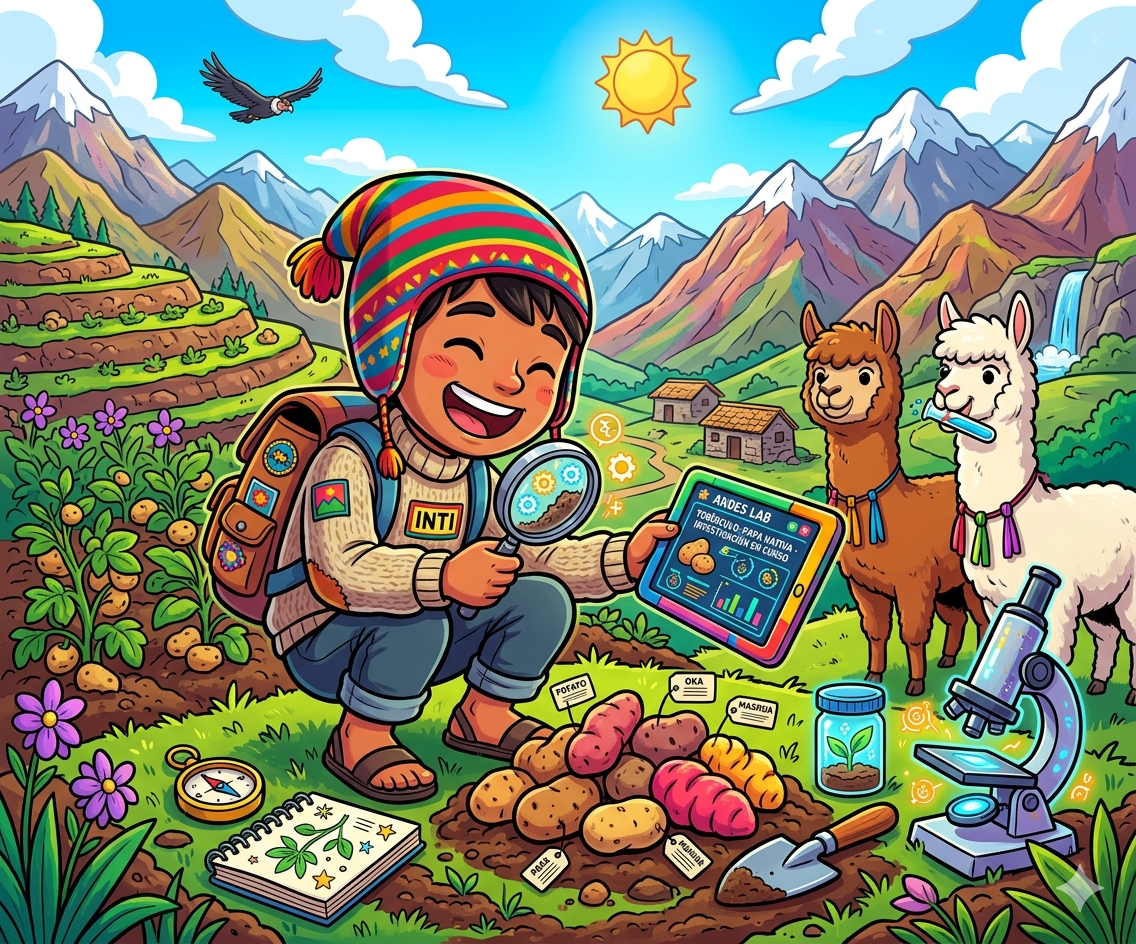
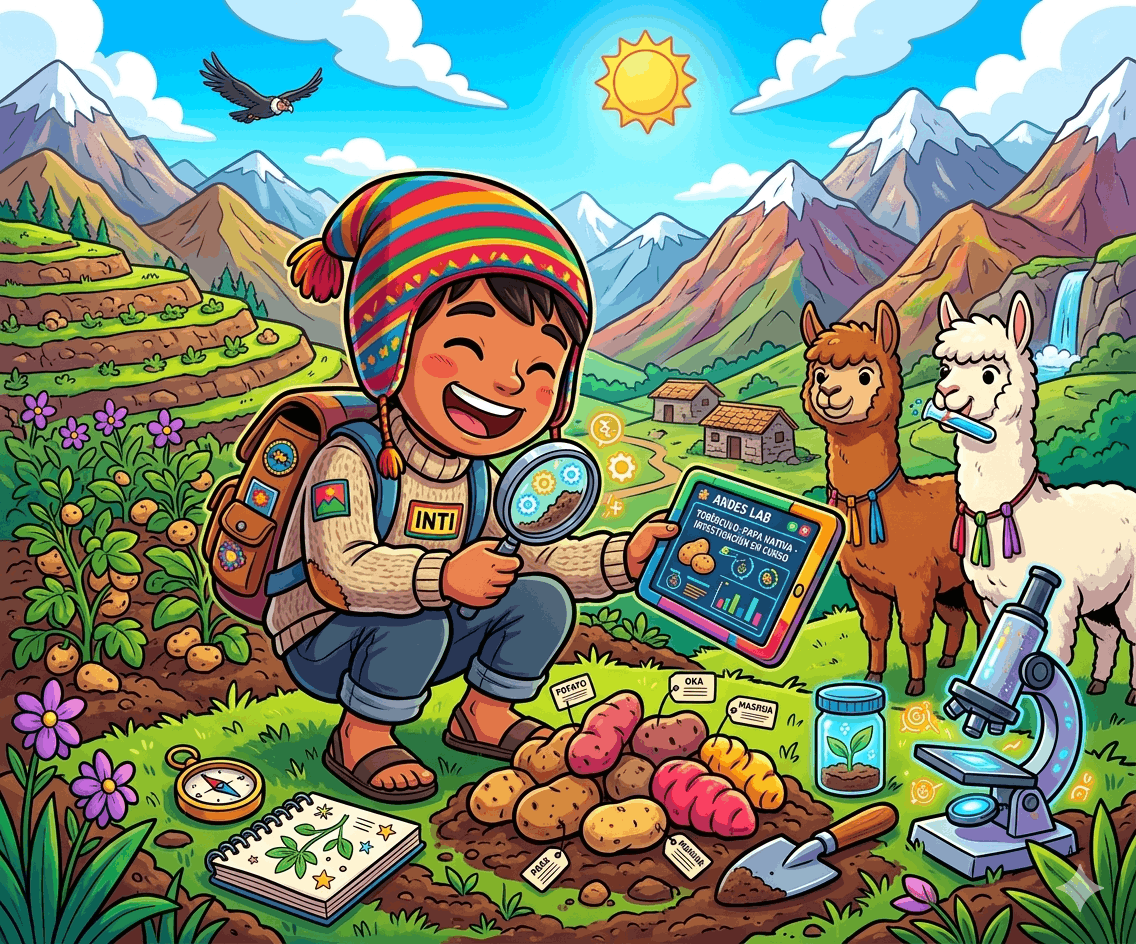
add imagen tupac en juego

diff --git a/resources/views/livewire/mision-juego.blade.php b/resources/views/livewire/mision-juego.blade.php
@@ -60,7 +60,9 @@
 
         {{-- Tupaq habla --}}
         <div class="bg-amber-50 border border-amber-200 rounded-xl p-5 mb-4 flex gap-4">
-            <div class="text-3xl flex-shrink-0">🦙</div>
+    <img src="{{ asset('images/tupac.png') }}" 
+         alt="Tupaq" 
+         style="width:60px;height:60px;border-radius:50%;object-fit:cover;flex-shrink:0;border:2px solid rgba(28,171,226,0.3);">
             <div>
                 <p class="text-xs font-medium text-amber-700 mb-1">Tupaq dice:</p>
                 @if($respuestaTupaq)

diff --git a/resources/views/welcome.blade.php b/resources/views/welcome.blade.php
@@ -130,9 +130,9 @@
 
         <div style="display:flex;flex-direction:column;gap:16px;">
             <img 
-                src="{{ asset('images/hero-andino.png') }}" 
+                src="{{ asset('images/hero-andino.png') }}"     
                 alt="Yachaq Kawsay" 
-                style="width:100%;max-width:480px;border-radius:20px;object-fit:cover;">
+                style="width:50%;max-width:480px;border-radius:20px;object-fit:cover;">
         </div>
 
         
